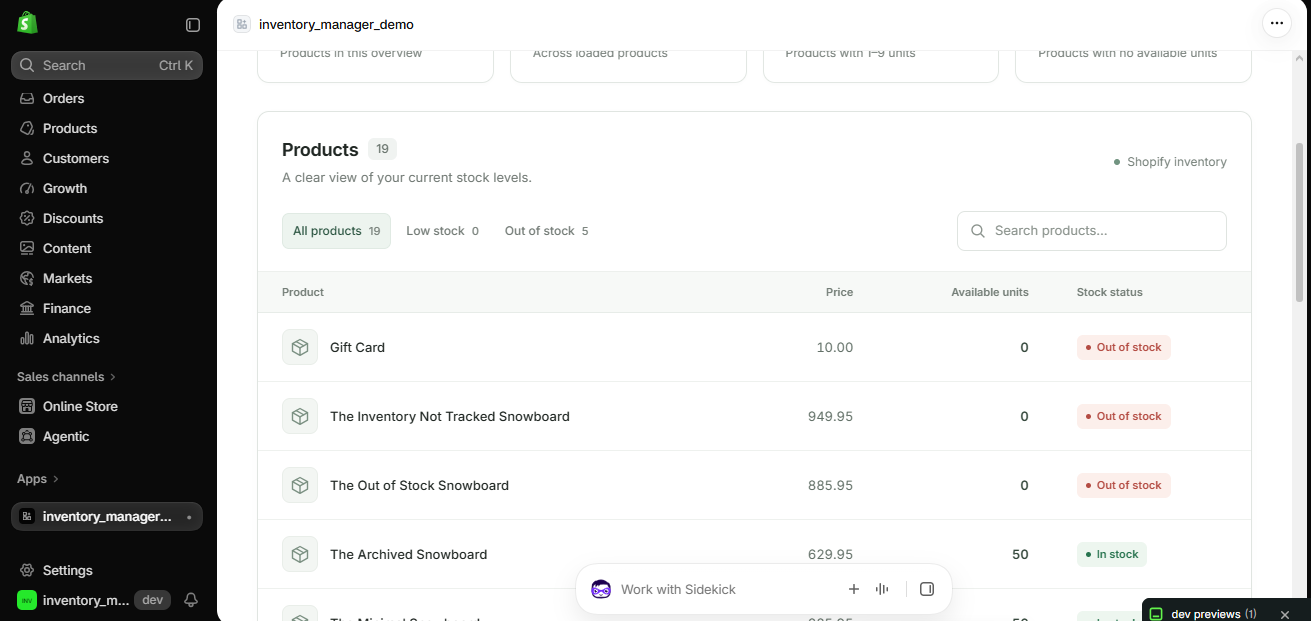
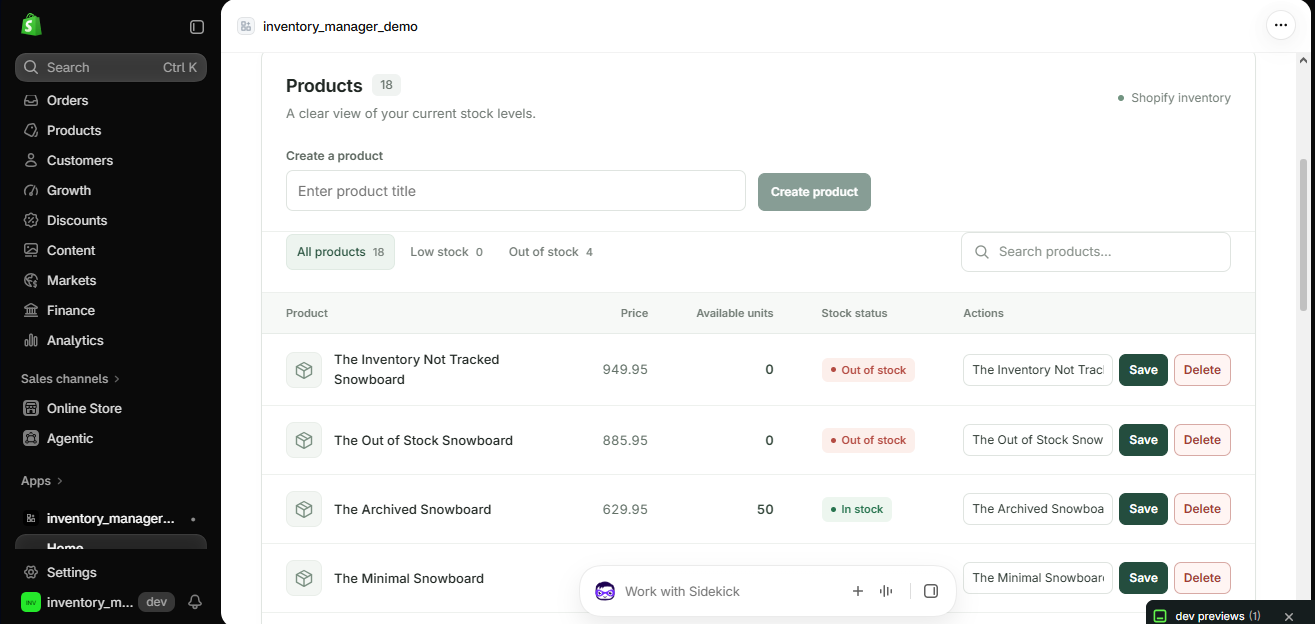
Added Crud Operations to the store

diff --git a/app/routes/app._index.tsx b/app/routes/app._index.tsx
@@ -1,6 +1,10 @@
-import { useState } from "react";
-import type { HeadersFunction, LoaderFunctionArgs } from "react-router";
-import { useLoaderData, useRevalidator } from "react-router";
+import { useEffect, useState } from "react";
+import type {
+  HeadersFunction,
+  LoaderFunctionArgs,
+  ActionFunctionArgs,
+} from "react-router";
+import { useFetcher, useLoaderData, useRevalidator } from "react-router";
 import { authenticate } from "../shopify.server";
 import { boundary } from "@shopify/shopify-app-react-router/server";
 import styles from "../styles/inventory.module.css";
@@ -50,6 +54,83 @@ export const loader = async ({ request }: LoaderFunctionArgs) => {
   };
 };
 
+export const action = async ({ request }: ActionFunctionArgs) => {
+  const { admin } = await authenticate.admin(request);
+
+  const formData = await request.formData();
+  const intent = String(formData.get("intent") ?? "create");
+  const title = String(formData.get("title") ?? "").trim();
+  const id = String(formData.get("id") ?? "").trim();
+
+  if (intent === "create" && !title) {
+    return { success: false, intent, error: "Product title is required" };
+  }
+  if ((intent === "update" || intent === "delete") && !id) {
+    return { success: false, intent, error: "Product ID is required" };
+  }
+  if (intent === "update" && !title) {
+    return { success: false, intent, error: "Product title is required" };
+  }
+  if (!["create", "update", "delete"].includes(intent)) {
+    return { success: false, intent, error: "Unsupported product operation" };
+  }
+
+  const mutation =
+    intent === "create"
+      ? `mutation CreateProduct($product: ProductCreateInput!) {
+        productCreate(product: $product) {
+          product { id title status }
+          userErrors { field message }
+        }
+      }`
+      : intent === "update"
+        ? `mutation UpdateProduct($input: ProductInput!) {
+          productUpdate(input: $input) {
+            product { id title status }
+            userErrors { field message }
+          }
+        }`
+        : `mutation DeleteProduct($input: ProductDeleteInput!) {
+          productDelete(input: $input) {
+            deletedProductId
+            userErrors { field message }
+          }
+        }`;
+  const variables =
+    intent === "create"
+      ? { product: { title } }
+      : intent === "update"
+        ? { input: { id, title } }
+        : { input: { id } };
+  const response = await admin.graphql(mutation, { variables });
+  const result = (await response.json()) as {
+    data?: Record<string, { userErrors?: { message?: string }[] }>;
+    errors?: { message?: string }[];
+  };
+  const payload =
+    result.data?.[
+      intent === "create"
+        ? "productCreate"
+        : intent === "update"
+          ? "productUpdate"
+          : "productDelete"
+    ];
+  const errors = payload?.userErrors ?? [];
+
+  if (result.errors?.length || errors.length) {
+    return {
+      success: false,
+      intent,
+      error:
+        errors[0]?.message ??
+        result.errors?.[0]?.message ??
+        `Failed to ${intent} product`,
+    };
+  }
+
+  return { success: true, intent };
+};
+
 type StockFilter = "all" | "low" | "out";
 
 function InventoryIcon({ refresh = false }: { refresh?: boolean }) {
@@ -94,9 +175,22 @@ function escapeCsvField(value: string | number) {
 export default function InventoryDashboard() {
   const { products } = useLoaderData<typeof loader>();
   const revalidator = useRevalidator();
+  const fetcher = useFetcher<typeof action>();
+  const [newTitle, setNewTitle] = useState("");
   const [search, setSearch] = useState("");
   const [stockFilter, setStockFilter] = useState<StockFilter>("all");
   const refreshing = revalidator.state !== "idle";
+  const submitting = fetcher.state !== "idle";
+
+  useEffect(() => {
+    if (
+      fetcher.state === "idle" &&
+      fetcher.data?.success &&
+      fetcher.data.intent === "create"
+    ) {
+      setNewTitle("");
+    }
+  }, [fetcher.data, fetcher.state]);
   const lowStock = products.filter(
     (p) => p.totalInventory > 0 && p.totalInventory < 10,
   ).length;
@@ -225,6 +319,42 @@ export default function InventoryDashboard() {
           </div>
           <span className={styles.source}>Shopify inventory</span>
         </div>
+        <form
+          className={styles.createForm}
+          onSubmit={(event) => {
+            event.preventDefault();
+            fetcher.submit(
+              { intent: "create", title: newTitle },
+              { method: "POST" },
+            );
+          }}
+        >
+          <div className={styles.createInputGroup}>
+            <label htmlFor="new-product-title">Create a product</label>
+            <input
+              id="new-product-title"
+              type="text"
+              value={newTitle}
+              onChange={(event) => setNewTitle(event.target.value)}
+              placeholder="Enter product title"
+              disabled={submitting}
+            />
+          </div>
+          <button
+            className={styles.createButton}
+            type="submit"
+            disabled={submitting || !newTitle.trim()}
+          >
+            {submitting && fetcher.formData?.get("intent") === "create"
+              ? "Creating…"
+              : "Create product"}
+          </button>
+        </form>
+        {fetcher.data?.error && (
+          <p className={styles.actionError} role="alert">
+            {fetcher.data.error}
+          </p>
+        )}
         <div className={styles.toolbar}>
           <div
             className={styles.filters}
@@ -286,6 +416,7 @@ export default function InventoryDashboard() {
                   Available units
                 </th>
                 <th scope="col">Stock status</th>
+                <th scope="col">Actions</th>
               </tr>
             </thead>
             <tbody>
@@ -318,6 +449,63 @@ export default function InventoryDashboard() {
                         <span className={styles.badgeDot} />
                         {status}
                       </span>
+                    </td>
+                    <td>
+                      <div className={styles.rowActions}>
+                        <input
+                          key={`${product.id}-${product.title}`}
+                          className={styles.inlineTitleInput}
+                          aria-label={`Title for ${product.title}`}
+                          defaultValue={product.title}
+                          onKeyDown={(event) => {
+                            if (event.key === "Enter") {
+                              event.preventDefault();
+                              fetcher.submit(
+                                {
+                                  intent: "update",
+                                  id: product.id,
+                                  title: event.currentTarget.value,
+                                },
+                                { method: "POST" },
+                              );
+                            }
+                          }}
+                        />
+                        <button
+                          className={styles.rowButton}
+                          type="button"
+                          disabled={submitting}
+                          onClick={(event) => {
+                            const input =
+                              event.currentTarget.parentElement?.querySelector<HTMLInputElement>(
+                                "input",
+                              );
+                            fetcher.submit(
+                              {
+                                intent: "update",
+                                id: product.id,
+                                title: input?.value ?? product.title,
+                              },
+                              { method: "POST" },
+                            );
+                          }}
+                        >
+                          Save
+                        </button>
+                        <button
+                          className={styles.deleteButton}
+                          type="button"
+                          disabled={submitting}
+                          onClick={() =>
+                            fetcher.submit(
+                              { intent: "delete", id: product.id },
+                              { method: "POST" },
+                            )
+                          }
+                        >
+                          Delete
+                        </button>
+                      </div>
                     </td>
                   </tr>
                 );

diff --git a/app/styles/inventory.module.css b/app/styles/inventory.module.css
@@ -186,6 +186,84 @@
   font-weight: 650;
   letter-spacing: -0.3px;
 }
+.createForm {
+  display: flex;
+  align-items: flex-end;
+  gap: 12px;
+  padding: 0 24px 20px;
+  border-bottom: 1px solid #edf0ed;
+}
+.createInputGroup {
+  display: grid;
+  gap: 5px;
+  flex: 1;
+  max-width: 460px;
+}
+.createInputGroup label {
+  color: #5d6760;
+  font-size: 12px;
+  font-weight: 600;
+}
+.createInputGroup input,
+.inlineTitleInput {
+  min-width: 0;
+  border: 1px solid #dfe4e0;
+  border-radius: 7px;
+  padding: 9px 11px;
+  background: #fff;
+  color: #28342d;
+  font: inherit;
+  outline: none;
+}
+.createInputGroup input:focus,
+.inlineTitleInput:focus {
+  border-color: #638f76;
+  box-shadow: 0 0 0 3px #e6f0e9;
+}
+.createButton,
+.rowButton,
+.deleteButton {
+  border: 1px solid #244d3e;
+  border-radius: 7px;
+  padding: 9px 12px;
+  background: #244d3e;
+  color: white;
+  font: inherit;
+  font-size: 12px;
+  font-weight: 600;
+  cursor: pointer;
+  white-space: nowrap;
+}
+.createButton:disabled,
+.rowButton:disabled,
+.deleteButton:disabled {
+  opacity: 0.55;
+  cursor: not-allowed;
+}
+.actionError {
+  margin: -8px 24px 16px;
+  color: #a33d35;
+  font-size: 12px;
+}
+.rowActions {
+  display: flex;
+  align-items: center;
+  gap: 6px;
+}
+.inlineTitleInput {
+  width: 150px;
+  padding: 6px 8px;
+  font-size: 12px;
+}
+.rowButton {
+  padding: 6px 9px;
+}
+.deleteButton {
+  border-color: #d8aaa5;
+  background: #fff5f3;
+  color: #a33d35;
+  padding: 6px 9px;
+}
 .sectionHeading p {
   margin-top: 5px;
   font-size: 13px;
@@ -477,6 +555,14 @@
   }
   .toolbar {
     padding: 0 16px 16px;
+  }
+  .createForm {
+    align-items: stretch;
+    flex-direction: column;
+    padding: 0 16px 16px;
+  }
+  .createInputGroup {
+    max-width: none;
   }
   .tableFooter {
     padding: 16px;

diff --git a/README.md b/README.md
@@ -55,13 +55,14 @@ SHOPIFY_APP_URL
 SCOPES
 ```
 
-The configured local scope is `SCOPES=read_products`.
+The configured local scopes are `SCOPES=read_products,write_products`.
 
 ## Required Shopify API scope
 
 The app requests one Admin API scope:
 
 - `read_products` — reads product records, first-variant prices, product status, and `totalInventory` for the inventory dashboard
+- `write_products` — creates, renames, and deletes products from the dashboard
 
 No write scope is required by the implemented features.
 
